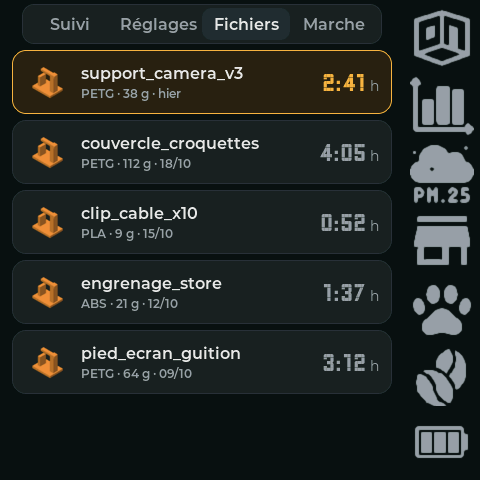
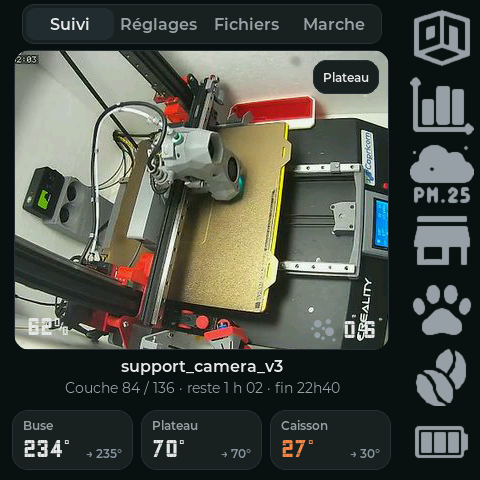
galerie : la vraie caméra du caisson remplace la séquence libre de droit
La séquence CC0 (floue à la taille d'affichage) est retirée du dépôt, avec
son crédit. À la place, 10 vraies images de la caméra du caisson de
l'imprimante de l'auteur, prises pendant un « park » à 20 images/s, publiées
avec son accord explicite (13/11) : simu/donnees/cameras/park_caisson/.
- GIF « navigation » : le direct caméra s'anime à la cadence réelle — une
  frame toutes les 50 ms (le flux simulé tire ~2 fois par pas de 10 ms, la
  séquence avance d'une frame tous les 10 tirages), 6 frames sans aucune
  retouche ni blocisation. Le GIF passe en 360 x 360 (taille d'affichage) :
  557 Ko, contre 322 Ko avant — le lisibilité prime, la durée de l'animation
  est réduite (0,3 s) pour tenir le poids.
- Vignette Imprimante de la galerie : capture 45b, vue caisson avec la vraie
  image (avant : mire de test).
- docs/IMPRIMANTE.md FR/EN : trois photos d'écran réel (vues STL, caisson,
  plateau), légende honnête : interface d'une version antérieure.
- CREDITS FR/EN : la source CC0 est retirée ; les images caméra sont
  créditées comme prises de l'auteur, avec son accord.

diff --git a/simu/simu.cpp b/simu/simu.cpp
@@ -657,20 +657,22 @@ int main()
                           : strstr(url, "src=plateau_ecran") ? "plateau" : nullptr;
         if (!cam)
             return false;
-        // 13/11 (GIF « navigation » du README) : g_seq_cam = dossier de la séquence servie image par image
-        // (donnees/cameras/<dossier>/NNN.jpg), vide = image fixe. La séquence de l'imprimante vient d'une
-        // vidéo libre de droit (CC0, Wikimedia Commons — source et auteur dans docs/CREDITS.md).
+        // 13/11 (GIF « navigation » + vignette du README) : g_seq_cam = dossier de la séquence servie
+        // image par image (donnees/cameras/<dossier>/NNN.jpg), vide = image fixe. Les images de la
+        // séquence de l'imprimante sont de la VRAIE caméra du caisson de l'auteur (publiées avec son
+        // accord), prises pendant un « park » à 20 images/s : le flux simulé, tiré ~2 fois par pas de
+        // 10 ms, consomme une frame toutes les 10 tirages (g_seq_i/10) pour tenir la cadence réelle.
         if (g_seq_cam[0])
         {
             char seq[128];
-            snprintf(seq, sizeof seq, "donnees/cameras/%s/%03d.jpg", g_seq_cam, g_seq_i++ % 12);
+            snprintf(seq, sizeof seq, "donnees/cameras/%s/%03d.jpg", g_seq_cam, g_seq_i++ / 10 % 10);
             FILE *fs = fopen(seq, "rb");
             if (fs)
             {
                 *n = fread(buf, 1, max, fs);
                 fclose(fs);
                 if (*n > 0)
-                    return true; // séquence épuisée ? on retombe sur l'image fixe ci-dessous, mais elle boucle (% 12)
+                    return true; // la séquence boucle (% 10) ; si le fichier manque, on retombe sur l'image fixe ci-dessous
             }
         }
         FILE *f = fopen((std::string("donnees/cameras/") + cam + ".jpg").c_str(), "rb");
@@ -1448,10 +1450,15 @@ int main()
     aller("Imprimante 3D");
     avancer(600);
     capture("45_imprimante");
+    // 13/11 (vignette de la galerie) : la vue caisson montre de vraies images de la caméra du caisson
+    // (donnees/cameras/park_caisson/, publiées avec l'accord de l'auteur) ; retirée juste après la capture.
+    snprintf(g_seq_cam, sizeof g_seq_cam, "park_caisson");
+    g_seq_i = 0;
     toucher(359, 71); // 26/10 : bouton « Caméra » : les images de motionEye (ui_camera)
     lacher();
     avancer(300);
     capture("45b_imprimante_camera");
+    g_seq_cam[0] = 0; // la suite (plateau puis anneau) garde les images de test habituelles
     // 08/11/2026 : le bouton a TROIS vues depuis la page Imprimante en 9.6 (STL -> caisson -> plateau).
     // Le scénario s'arrétait au caisson ; on pousse le cycle complet, capture du plateau comprise.
     toucher(359, 71); // 2e appui : le PLATEAU (bouton « Plateau » -> vue plateau)
@@ -2945,9 +2952,10 @@ int main()
             printf("[anim-rail] clic icône : « %s » -> « %s »\n", ui_shell_nom(page_avant), ui_shell_nom(ui_shell_page()));
         }
         // 13/11 : petite animation caméra en bout de course : bouton « Caméra » de la page Imprimante
-        // (vue caisson, la caméra au-dessus de l'imprimante), puis une frame de la séquence libre de droit
-        // par capture — le flux simulé sert l'image suivante dès que la précédente est posée
-        // (CAM_PERIODE_MS = 0, src/ui_lvgl/ui_camera.cpp:20), comme le vrai flux MJPEG de go2rtc.
+        // (vue caisson), puis les vraies images de la caméra du caisson (l'auteur, accord explicite)
+        // pendant un park : 10 frames prises à 20 images/s, servies à leur cadence réelle — une capture
+        // tous les 50 ms (le flux simulé est tiré ~2 fois par pas de 10 ms, la séquence avance d'une
+        // frame tous les 10 tirages).
         if (cible && ui_shell_nom(ui_shell_page()) && !strcmp(ui_shell_nom(ui_shell_page()), "Imprimante 3D"))
         {
             toucher(359, 71); // bouton « Caméra »
@@ -2956,11 +2964,12 @@ int main()
             t += 300;
             snprintf(nom, sizeof nom, "anim_rail_%03d", t);
             capture(nom);
-            snprintf(g_seq_cam, sizeof g_seq_cam, "imprimante_seq"); // donnees/cameras/imprimante_seq/NNN.jpg (CC0, voir CREDITS)
-            for (int i = 0; i < 12; i++)
+            snprintf(g_seq_cam, sizeof g_seq_cam, "park_caisson"); // donnees/cameras/park_caisson/NNN.jpg (vraie caméra, frames f116..f125)
+            g_seq_i = 0;
+            for (int i = 0; i < 10; i++)
             {
-                avancer(10);
-                t += 10;
+                avancer(50);
+                t += 50;
                 snprintf(nom, sizeof nom, "anim_rail_%03d", t);
                 capture(nom);
             }

diff --git a/docs/CREDITS.md b/docs/CREDITS.md
@@ -39,10 +39,12 @@ mires générées, libres de droit — sauf deux médias pris sur Wikimedia Comm
 
 - la pochette d'album de la page Musique : **« CommoNasm »** (mashup de TenDJiz, 2012), visuel publié
   par le producteur lui-même —
-  [File:Commonasm mashup album artwork.jpg](https://commons.wikimedia.org/wiki/File:Commonasm_mashup_album_artwork.jpg) ;
-- la courte séquence d'impression 3D du GIF « navigation » (rail) : images tirées de
-  **« 3D printing time-lapse 2026.webm »** (imprimante FDM en gros plan, personne à l'image) —
-  [File:3D printing time-lapse 2026.webm](https://commons.wikimedia.org/wiki/File:3D_printing_time-lapse_2026.webm).
+  [File:Commonasm mashup album artwork.jpg](https://commons.wikimedia.org/wiki/File:Commonasm_mashup_album_artwork.jpg).
+
+Les images de la caméra du caisson qui animent le GIF « navigation » et la vignette Imprimante
+(`simu/donnees/cameras/park_caisson/`) et les trois photos d'écran réel de
+[docs/IMPRIMANTE.md](IMPRIMANTE.md) sont des prises de l'auteur, sur sa propre imprimante, publiées
+avec son accord explicite (13/11/2026).
 
 La page « IA » est inspirée de [Clawdmeter](https://github.com/HermannBjorgvin/Clawdmeter) : l'idée
 d'afficher à l'écran l'activité d'un agent Claude. **Aucune ligne de code ni aucun fichier de ce projet

diff --git a/docs/en/CREDITS.md b/docs/en/CREDITS.md
@@ -39,10 +39,12 @@ patterns, free of rights — except two media taken from Wikimedia Commons under
 
 - the album cover on the Music page: **“CommoNasm”** (a TenDJiz mashup, 2012), artwork published by
   the producer himself —
-  [File:Commonasm mashup album artwork.jpg](https://commons.wikimedia.org/wiki/File:Commonasm_mashup_album_artwork.jpg) ;
-- the short 3D-printing sequence in the “navigation” GIF (rail): frames from
-  **“3D printing time-lapse 2026.webm”** (an FDM printer close-up, nobody in shot) —
-  [File:3D printing time-lapse 2026.webm](https://commons.wikimedia.org/wiki/File:3D_printing_time-lapse_2026.webm).
+  [File:Commonasm mashup album artwork.jpg](https://commons.wikimedia.org/wiki/File:Commonasm_mashup_album_artwork.jpg).
+
+The enclosure-camera images animating the “navigation” GIF and the Printer vignette
+(`simu/donnees/cameras/park_caisson/`) and the three real-screen photos in
+[docs/en/IMPRIMANTE.md](IMPRIMANTE.md) were taken by the author, on his own printer, published with
+his explicit consent (13/11/2026).
 
 The "AI" page was inspired by [Clawdmeter](https://github.com/HermannBjorgvin/Clawdmeter): the idea of
 showing a Claude agent's activity on a screen. **No line of code and no file from that project is

diff --git a/docs/en/IMPRIMANTE.md b/docs/en/IMPRIMANTE.md
@@ -115,6 +115,11 @@ overridable with `-D` at compile time): adapt host, port and `src=`, then rebuil
 a wrong URL), the corner button still cycles STL → enclosure → bed views; the zone simply stays empty
 (`[camera]` traces go to serial/telnet, nothing is displayed).
 
+The real screen, with its three views — file thumbnail, enclosure, bed (interface from an earlier
+version; images taken by the author's camera, published with his consent):
+
+<img src="../images/ecran-reel-piece.png" width="234" alt="Real screen, STL file view"> <img src="../images/ecran-reel-caisson.png" width="234" alt="Real screen, enclosure view"> <img src="../images/ecran-reel-plateau.png" width="234" alt="Real screen, bed view">
+
 ## 5. How a command travels
 
 The screen publishes to `dashboard_guition/imprimante/set`; HA validates the action against the known

diff --git a/docs/IMPRIMANTE.md b/docs/IMPRIMANTE.md
@@ -121,6 +121,11 @@ Sans caméra (ou avec une URL fausse), le bouton d'angle continue de tourner les
 plateau ; la zone reste simplement vide (des traces `[camera]` passent en série/telnet, rien
 d'affiché).
 
+L'écran réel, avec ses trois vues — miniature du fichier, caisson, plateau (interface d'une version
+antérieure ; images prises par la caméra de l'auteur, publiées avec son accord) :
+
+<img src="images/ecran-reel-piece.png" width="234" alt="Écran réel, vue du fichier STL"> <img src="images/ecran-reel-caisson.png" width="234" alt="Écran réel, vue caisson"> <img src="images/ecran-reel-plateau.png" width="234" alt="Écran réel, vue plateau">
+
 ## 5. Comment part une commande
 
 L'écran publie sur `dashboard_guition/imprimante/set`, HA valide la liste des actions connues et
